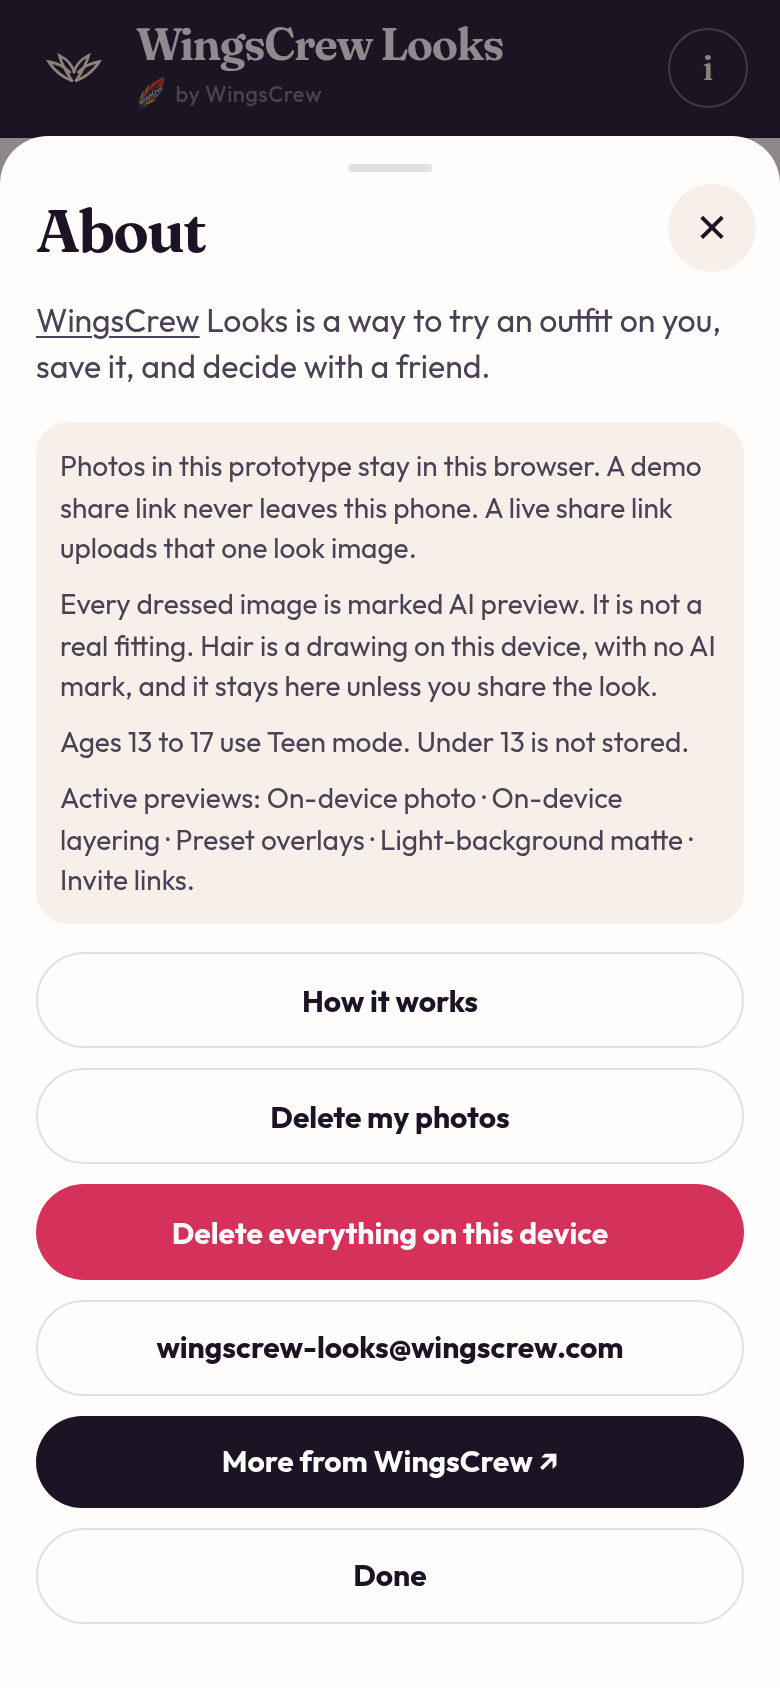
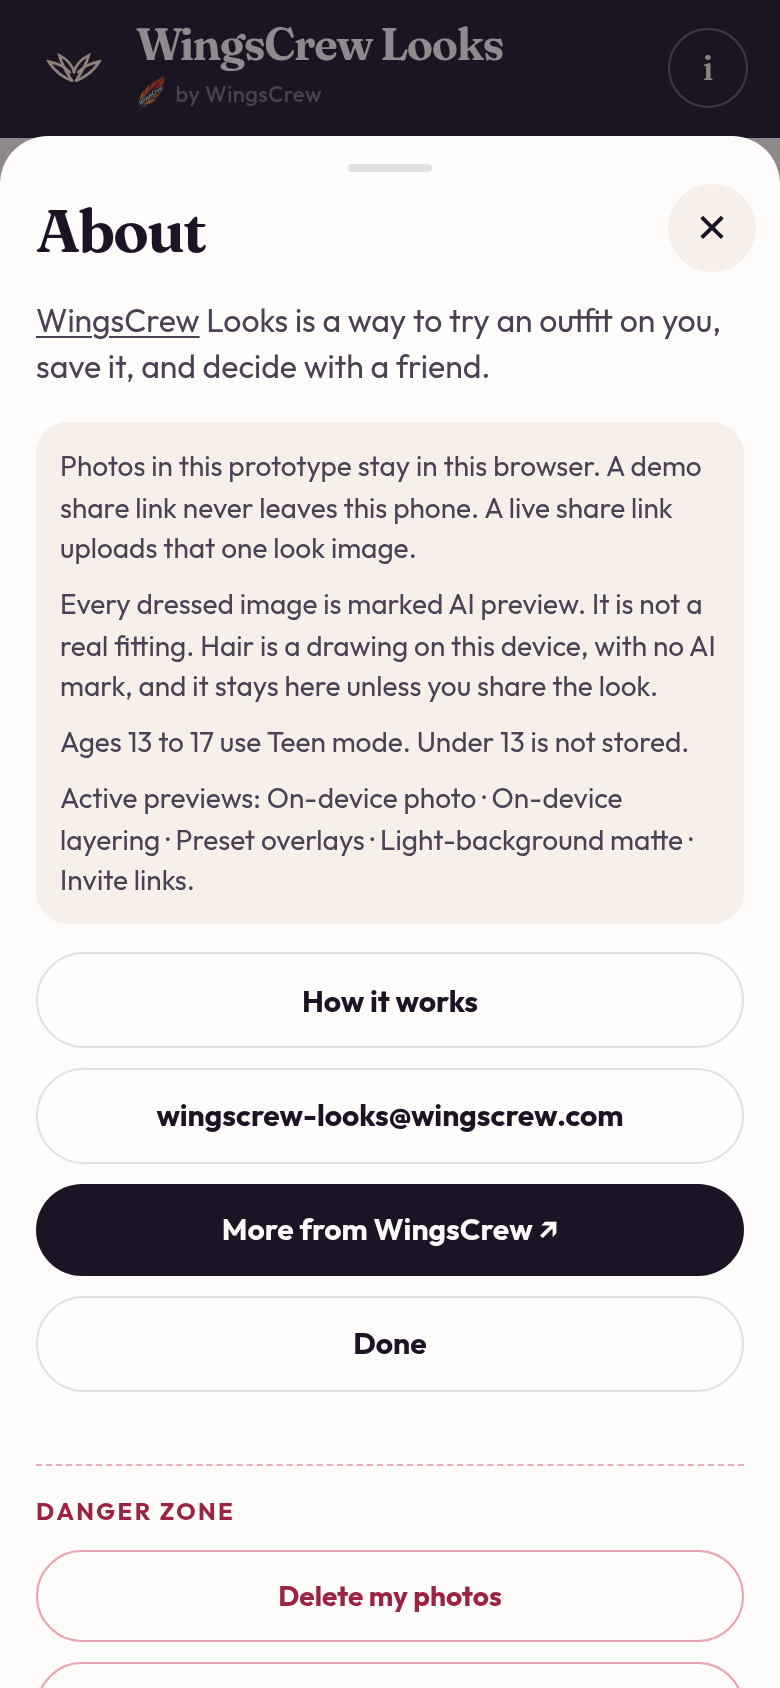
About: Danger zone for deletes; confirm every delete; readable Start here hint

diff --git a/js/app.js b/js/app.js
@@ -260,6 +260,10 @@ function showToast(message, { undo } = {}) {
   placeToast();
 }
 
+function confirmDelete(body, { title = "Are you sure?", confirmLabel = "Delete" } = {}) {
+  return askConfirm({ title, body, confirmLabel, danger: true });
+}
+
 function askConfirm({ title, body, confirmLabel, danger }) {
   const root = document.getElementById("confirm-root");
   root.hidden = false;
@@ -275,6 +279,7 @@ function askConfirm({ title, body, confirmLabel, danger }) {
     </div>`;
   hideDemoToast();
   placeToast();
+  root.querySelector("[data-no].btn")?.focus();
   return new Promise((resolve) => {
     const finish = (value) => {
       root.hidden = true;
@@ -1493,8 +1498,10 @@ function nudgeLayer(direction) {
   paintStudio();
 }
 
-function deleteSelected() {
-  if (!state.studio.selectedId) return;
+async function deleteSelected() {
+  const layer = selectedLayer();
+  if (!layer) return;
+  if (!(await confirmDelete(`This takes "${layer.name || "this piece"}" off the current outfit.`, { title: "Remove this piece?", confirmLabel: "Remove" }))) return;
   state.studio.layers = state.studio.layers.filter((layer) => layer.id !== state.studio.selectedId);
   state.studio.selectedId = null;
   markDirty();
@@ -2359,6 +2366,7 @@ async function addDemoPoses() {
 async function deletePhoto(id) {
   const removed = state.photos.find((photo) => photo.id === id);
   if (!removed) return;
+  if (!(await confirmDelete(`This erases the photo "${removed.name || "this pose"}" from this device.`))) return;
   await db.deletePhoto(id);
   visuals.delete(`photo:${id}`);
   if (state.studio.photoId === id) state.studio.photoId = null;
@@ -2372,6 +2380,7 @@ async function deletePhoto(id) {
 async function deleteMyPhotos() {
   const removed = state.photos.filter((photo) => !photo.demo);
   if (!removed.length) return;
+  if (!(await confirmDelete(`This erases ${removed.length === 1 ? "your photo" : `all ${removed.length} of your photos`} from this device. Demo drawings stay.`, { title: "Delete my photos?" }))) return;
   for (const photo of removed) {
     await db.deletePhoto(photo.id);
     visuals.delete(`photo:${photo.id}`);
@@ -2662,7 +2671,7 @@ async function onClick(event) {
       paintStudio();
     } else if (action === "layer-back") nudgeLayer(-1);
     else if (action === "layer-forward") nudgeLayer(1);
-    else if (action === "delete-layer") deleteSelected();
+    else if (action === "delete-layer") await deleteSelected();
     else if (action === "clear-outfit") clearOutfit();
     else if (action === "closet-layer") await saveLayerToCloset();
     else if (action === "upgrade") await openUpgrade(button.dataset.id);
@@ -2868,6 +2877,7 @@ function openTeenShare(lookId) {
 async function deleteItem(id) {
   const removed = state.items.find((item) => item.id === id);
   if (!removed) return;
+  if (!(await confirmDelete(`This removes "${removed.name || "this piece"}" from My Closet.`))) return;
   await db.deleteItem(id);
   await reload();
   render();
@@ -2877,6 +2887,7 @@ async function deleteItem(id) {
 async function deleteWish(id) {
   const removed = state.wishes.find((wish) => wish.id === id);
   if (!removed) return;
+  if (!(await confirmDelete(`This removes "${removed.name || "this item"}" from your wishlist.`))) return;
   await db.deleteWish(id);
   await reload();
   render();
@@ -2886,6 +2897,7 @@ async function deleteWish(id) {
 async function deleteLook(id) {
   const removed = state.looks.find((look) => look.id === id);
   if (!removed) return;
+  if (!(await confirmDelete(`This deletes the look "${removed.name || "this look"}", its votes, and any share link for it.`))) return;
   const shared = providers.shareLinks.owned().find((item) => item.lookId === id && !item.revoked);
   if (shared) await providers.shareLinks.revoke(shared.token);
   await db.deleteLook(id);
@@ -3162,6 +3174,7 @@ async function approveFriend(id) {
 }
 
 async function setFriendStatus(id, kind) {
+  if (kind === "remove" && !(await confirmDelete("They will no longer see your looks or vote on them.", { title: "Remove this friend?", confirmLabel: "Remove" }))) return;
   const result = kind === "block" ? providers.circle.blockFriend(state.circle, { id }) : providers.circle.removeFriend(state.circle, { id });
   state.circle = result.circle;
   await saveCircle();
@@ -3237,22 +3250,20 @@ function openAbout() {
     </div>
     <div class="stack" style="margin-top:14px">
       <button type="button" class="btn ghost full" data-action="how-it-works">How it works</button>
-      <button type="button" class="btn ghost full" data-action="delete-photos">Delete my photos</button>
-      <button type="button" class="btn rose full" data-action="delete-all">Delete everything on this device</button>
       <a class="btn ghost full" style="text-align:center;text-decoration:none" href="mailto:${CONTACT_EMAIL}">${CONTACT_EMAIL}</a>
       ${moreFromWingsCrewHtml().replace("btn ghost", "btn full")}
       <button type="button" class="btn ghost full" data-sheet-close>Done</button>
     </div>
+    <section class="danger-zone" aria-labelledby="danger-zone-label">
+      <h3 id="danger-zone-label">Danger zone</h3>
+      <button type="button" class="btn danger-outline full" data-action="delete-photos">Delete my photos</button>
+      <button type="button" class="btn danger-outline full" data-action="delete-all">Delete everything on this device</button>
+    </section>
     ${footerHtml({ more: false })}`);
 }
 
 async function deleteAll() {
-  const yes = await askConfirm({
-    title: "Delete everything?",
-    body: "This removes photos, closet pieces, looks, wishlist items, and votes from this device.",
-    confirmLabel: "Delete everything",
-    danger: true,
-  });
+  const yes = await confirmDelete("This erases all your photos, closet pieces, saved looks, wishlist items, and votes from this device. It can't be undone.", { title: "Delete everything?" });
   if (!yes) return;
   await db.clearAll();
   location.reload();

diff --git a/tests/branding.test.js b/tests/branding.test.js
@@ -94,3 +94,40 @@ test("empty Dress: start hint shown and action bar hidden until a photo exists",
   const css = await read("css/app.css");
   assert.match(css, /\.studio-actions\[hidden\] \{ display: none; \}/);
 });
+
+test("About: deletes sit in a separate Danger zone below Done, outlined not filled", async () => {
+  const app = await read("js/app.js");
+  const about = app.match(/function openAbout[^]*?\n\}/)[0];
+  const order = ["how-it-works", "mailto:", "moreFromWingsCrewHtml()", ">Done<", "danger-zone", 'data-action="delete-photos"', 'data-action="delete-all"'].map((k) => about.indexOf(k));
+  assert.ok(order.every((i) => i >= 0), String(order));
+  assert.deepEqual([...order].sort((a, b) => a - b), order);
+  const stack = about.slice(0, about.indexOf("danger-zone"));
+  assert.doesNotMatch(stack, /delete-/);
+  assert.match(about, /<h3 id="danger-zone-label">Danger zone<\/h3>/);
+  assert.doesNotMatch(about, /btn rose/);
+  assert.match(await read("css/app.css"), /\.danger-zone \{ margin-top: 36px;/);
+});
+
+test("every delete asks first: Cancel is the safe default, data is erased only on Delete", async () => {
+  const app = await read("js/app.js");
+  assert.match(app, /function confirmDelete\(body, \{ title = "Are you sure\?", confirmLabel = "Delete" \} = \{\}\) \{\s*return askConfirm\(\{ title, body, confirmLabel, danger: true \}\);/);
+  assert.match(app, /class="btn ghost" data-no>Cancel<[^]*?class="btn \$\{danger \? "rose" : ""\}" data-yes>/);
+  assert.match(app, /root\.querySelector\("\[data-no\]\.btn"\)\?\.focus\(\);/);
+  assert.match(app, /node\.onclick = \(\) => finish\(false\)/); // backdrop + Cancel resolve false
+  const guarded = {
+    deletePhoto: "db.deletePhoto(id)", deleteMyPhotos: "db.deletePhoto(photo.id)", deleteItem: "db.deleteItem(id)",
+    deleteWish: "db.deleteWish(id)", deleteLook: "db.deleteLook(id)", deleteAll: "db.clearAll()",
+    deleteSelected: "state.studio.layers = ", setFriendStatus: "removeFriend",
+  };
+  for (const [fn, eraser] of Object.entries(guarded)) {
+    const body = app.match(new RegExp(`async function ${fn}\\([^]*?\\n\\}`))[0];
+    const ask = body.search(/if \(!\(?(?:yes|await confirmDelete)|if \(!yes\) return|&& !\(await confirmDelete/);
+    assert.ok(ask >= 0, `${fn} asks`);
+    assert.ok(ask < body.indexOf(eraser), `${fn} asks before erasing`);
+  }
+  assert.doesNotMatch(app, /window\.confirm\(/);
+});
+
+test("Start here hint is a high-contrast pill", async () => {
+  assert.match(await read("css/app.css"), /\.stage-empty \.start-hint \{[^}]*color: #fff; background: rgba\(28, 20, 36, 0\.88\)/);
+});

diff --git a/css/app.css b/css/app.css
@@ -146,6 +146,9 @@ main {
   font-size: 15px;
 }
 .btn.rose { background: var(--rose); }
+.btn.danger-outline { background: transparent; color: var(--rose-deep); border: 1.5px solid rgba(212, 50, 91, 0.45); box-shadow: none; min-height: 44px; font-size: 14px; }
+.danger-zone { margin-top: 36px; padding-top: 14px; border-top: 1px dashed rgba(212, 50, 91, 0.4); display: grid; gap: 10px; }
+.danger-zone h3 { margin: 0; font-size: 12px; font-weight: 700; letter-spacing: 0.1em; text-transform: uppercase; color: var(--rose-deep); }
 .btn.ghost {
   background: transparent;
   color: var(--ink);
@@ -364,7 +367,7 @@ main {
   color: white;
 }
 .stage-empty[hidden], .studio-actions[hidden] { display: none; }
-.stage-empty .start-hint { font-family: var(--sans, inherit); font-size: 14px; font-weight: 700; letter-spacing: 0.06em; text-transform: uppercase; color: var(--gold-soft); }
+.stage-empty .start-hint { align-self: flex-start; font-family: inherit; font-size: 14px; font-weight: 700; letter-spacing: 0.06em; text-transform: uppercase; color: #fff; background: rgba(28, 20, 36, 0.88); padding: 6px 12px; border-radius: 999px; text-shadow: 0 1px 2px rgba(0, 0, 0, 0.5); }
 .welcome-steps { margin: 6px 0 14px; padding-left: 22px; display: grid; gap: 8px; font-size: 16px; }
 .welcome .hint { margin-bottom: 14px; }
 .welcome-start { min-height: 52px; font-size: 17px; }
